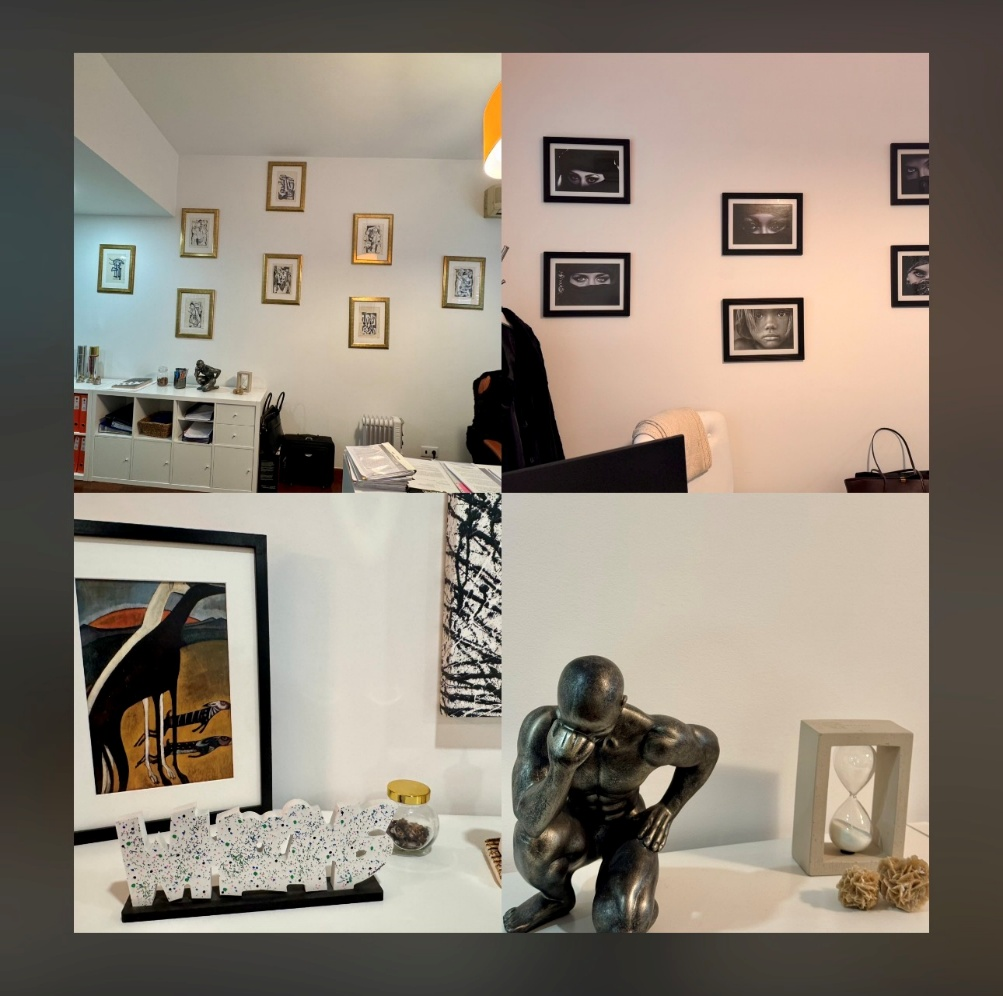
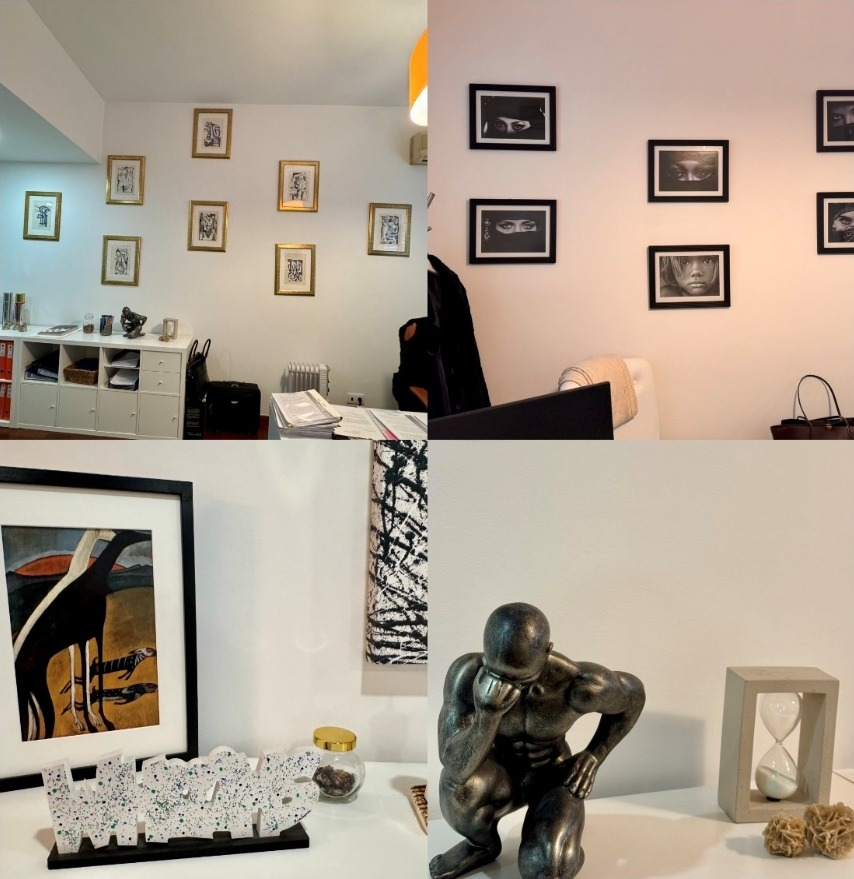
Simplify image borders: crop vignette, remove decorative glow
- Crop the baked-in dark vignette border from officepic1.jpeg
  (came from a Word picture style applied before export); the
  clean 2x2 photo grid now shows with no dark frame.
- Remove the decorative gold glow blob (::before) behind the hero
  office photo; both hero and Quem Somos images now use a plain,
  simple box-shadow only, as requested.
- Add .gitignore for .idea/ and .DS_Store (local IDE/OS artifacts
  unrelated to the project, noticed while cleaning up test files).

diff --git a/css/custom.css b/css/custom.css
@@ -199,25 +199,7 @@ body {
   color: var(--sc-accent);
 }
 
-.hero-image-wrap {
-  position: relative;
-}
-
-.hero-image-wrap::before {
-  content: "";
-  position: absolute;
-  inset: -1.5rem -1.5rem auto auto;
-  width: 70%;
-  height: 70%;
-  background: var(--sc-accent);
-  opacity: 0.15;
-  border-radius: var(--sc-radius-lg);
-  z-index: 0;
-}
-
 .hero-image-wrap img {
-  position: relative;
-  z-index: 1;
   box-shadow: var(--sc-shadow-lg);
 }
 
